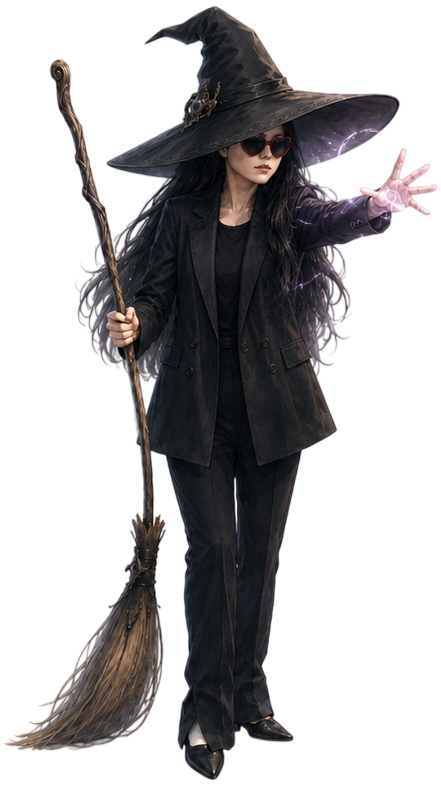
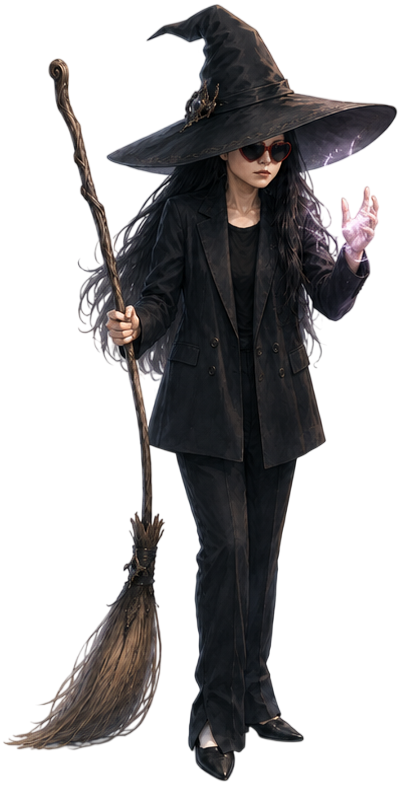
임소정 기본공격/스킬 발사 시작점 분리, 서민석 6성 스킬 문구 통일, sj 스프라이트 갱신

Changed region(s): [[0.0602, 0.0, 1.0, 1.0], [0.5113, 0.3964, 0.5714, 0.4879]]

diff --git a/devtest/devtest.js b/devtest/devtest.js
@@ -1594,15 +1594,21 @@
         requestAnimationFrame(frame);
     }
 
+    // 임소정 전기의 발사 시작점(손/지팡이 위치 근사치) - arena-battle.js와 동일. 기본공격/스킬이 서로
+    // 다른 지점에서 나가야 해서 따로 둔다.
+    const ELECTRIC_ORIGIN_BASIC = { fx: 0.9, fy: 0.27 };
+    const ELECTRIC_ORIGIN_SKILL = { fx: 1.3, fy: 0.28 };
+
     // 임소정 전용: 캐스터-대상을 잠깐 잇는 전기(이동하는 점이 아니라, 두 위치 사이를 잇는 막대를 회전시켜 만든다).
     // 기본공격은 얇고 푸른색(electric-blue), 스킬은 더 두껍고 노란색(electric-yellow)으로 호출한다.
-    function playElectricConnector(actorSlot, targetSlot, colorClass, radiusPx, onArrive) {
+    function playElectricConnector(actorSlot, targetSlot, colorClass, radiusPx, onArrive, origin) {
         const layer = document.getElementById("projectile-layer");
         const actorImg = document.querySelector(`[data-unit="${actorSlot}"] .battle-unit-img`);
         const targetImg = document.querySelector(`[data-unit="${targetSlot}"] .battle-unit-img`);
         if (!layer || !actorImg || !targetImg) { if (onArrive) onArrive(); return; }
 
-        const start = fieldRelativeCenter(actorImg);
+        const o = origin || ELECTRIC_ORIGIN_BASIC;
+        const start = imageContentPoint(actorImg, o.fx, o.fy);
         const end = fieldRelativeCenter(targetImg);
         const distance = Math.hypot(end.x - start.x, end.y - start.y);
         const angle = angleDeg(start, end);
@@ -1741,7 +1747,7 @@
         else if (style === "instant_flash") playInstantFlash(actorSlot, targetSlot, onArrive);
         else if (style === "text_particles") playTextParticles(actorSlot, targetSlot, onArrive);
         else if (style === "crayon") spawnCrayonProjectile(actorSlot, targetSlot, onArrive);
-        else if (style === "electric") playElectricConnector(actorSlot, targetSlot, "electric-blue", 5, onArrive);
+        else if (style === "electric") playElectricConnector(actorSlot, targetSlot, "electric-blue", 5, onArrive, ELECTRIC_ORIGIN_BASIC);
         else if (style === "book") spawnBookProjectile(actorSlot, targetSlot, onArrive);
         else if (style === "eye_laser") spawnEyeLaserBeam(actorSlot, targetSlot, units[actorSlot]?.isType2 ? "type2" : "type1", onArrive);
         else spawnProjectileStraight(actorSlot, targetSlot, onArrive);
@@ -1880,7 +1886,7 @@
                         spawnHeartProjectile(actorSlot, hit.targetSlot, hit.gender === "여" ? "heart-red" : "heart-pink", () => {});
                     });
                 } else if (dispatchEffectType === "debuff_atk_and_damage" && result.targetSlot) {
-                    playElectricConnector(actorSlot, result.targetSlot, "electric-yellow", 9, null);
+                    playElectricConnector(actorSlot, result.targetSlot, "electric-yellow", 9, null, ELECTRIC_ORIGIN_SKILL);
                     flashEffectAura(result.targetSlot, "debuff");
                     setStatusIcon(result.targetSlot, "atk_down", { source: `${actorSlot}:atk_down`, durationMs: params.debuff_seconds * 1000 });
                 } else if (dispatchEffectType === "bonus_damage_knockback" && result.targetSlot) {
@@ -2217,7 +2223,7 @@
                     units[hitSlot].hp = hit.target_hp_after;
                     renderUnit(hitSlot);
                     flashHit(hitSlot, hit.is_crit, hit.type_multiplier);
-                    playElectricConnector(actorSlot, hitSlot, "electric-yellow", 9, null);
+                    playElectricConnector(actorSlot, hitSlot, "electric-yellow", 9, null, ELECTRIC_ORIGIN_SKILL);
                     flashEffectAura(hitSlot, "debuff");
                     setStatusIcon(hitSlot, "atk_down", {
                         source: `${event.actor}:atk_down`,

diff --git a/arena/arena-battle.js b/arena/arena-battle.js
@@ -1219,17 +1219,23 @@
         requestAnimationFrame(frame);
     }
 
+    // 임소정 전기의 발사 시작점
+    // fx(오른쪽일수록 값이 큼)/fy(아래쪽일수록 값이 큼)
+    const ELECTRIC_ORIGIN_BASIC = { fx: 0.9, fy: 0.27 };
+    const ELECTRIC_ORIGIN_SKILL = { fx: 0.9, fy: 0.28 };
+
     // 임소정 전용: 캐스터-대상을 잠깐 잇는 전기(이동하는 점이 아니라, 두 위치 사이를 잇는 막대를 회전시켜 만든다).
     // 기본공격은 얇고 푸른색(electric-blue), 스킬은 더 두껍고 노란색(electric-yellow)으로 호출한다.
     // 전기는 사실상 즉발이라 onArrive는 아주 짧게만 대기한 뒤 부른다(null이면 안 부름 - 스킬처럼 이미
     // 피해를 즉시 반영해둔 경우).
-    function playElectricConnector(actorKey, targetKey, colorClass, radiusPx, onArrive) {
+    function playElectricConnector(actorKey, targetKey, colorClass, radiusPx, onArrive, origin) {
         const layer = document.getElementById("projectile-layer");
         const actorImg = document.querySelector(`[data-unit="${actorKey}"] .battle-unit-img`);
         const targetImg = document.querySelector(`[data-unit="${targetKey}"] .battle-unit-img`);
         if (!layer || !actorImg || !targetImg) { if (onArrive) onArrive(); return; }
 
-        const start = fieldRelativeCenter(actorImg);
+        const o = origin || ELECTRIC_ORIGIN_BASIC;
+        const start = imageContentPoint(actorImg, o.fx, o.fy);
         const end = fieldRelativeCenter(targetImg);
         const distance = Math.hypot(end.x - start.x, end.y - start.y);
         const angle = angleDeg(start, end);
@@ -1372,7 +1378,7 @@
         else if (style === "instant_flash") playInstantFlash(actorKey, targetKey, onArrive);
         else if (style === "text_particles") playTextParticles(actorKey, targetKey, onArrive);
         else if (style === "crayon") spawnCrayonProjectile(actorKey, targetKey, onArrive);
-        else if (style === "electric") playElectricConnector(actorKey, targetKey, "electric-blue", 5, onArrive);
+        else if (style === "electric") playElectricConnector(actorKey, targetKey, "electric-blue", 5, onArrive, ELECTRIC_ORIGIN_BASIC);
         else if (style === "book") spawnBookProjectile(actorKey, targetKey, onArrive);
         else if (style === "eye_laser") spawnEyeLaserBeam(actorKey, targetKey, units[actorKey]?.isType2 ? "type2" : "type1", onArrive);
         else spawnProjectile(actorKey, targetKey, onArrive);
@@ -2112,7 +2118,7 @@
                 const hit = event.detail.hits[0];
                 const targetKey = findHitKey(hit.target, hit.target_side);
                 if (targetKey) {
-                    playElectricConnector(actorKey, targetKey, "electric-yellow", 9, null);
+                    playElectricConnector(actorKey, targetKey, "electric-yellow", 9, null, ELECTRIC_ORIGIN_SKILL);
                     // 공격력 감소(디버프) = 파란색 오라 + 공격력 감소 아이콘(지속시간 동안)
                     flashEffectAura(targetKey, "debuff");
                     setStatusIcon(targetKey, "atk_down", {
